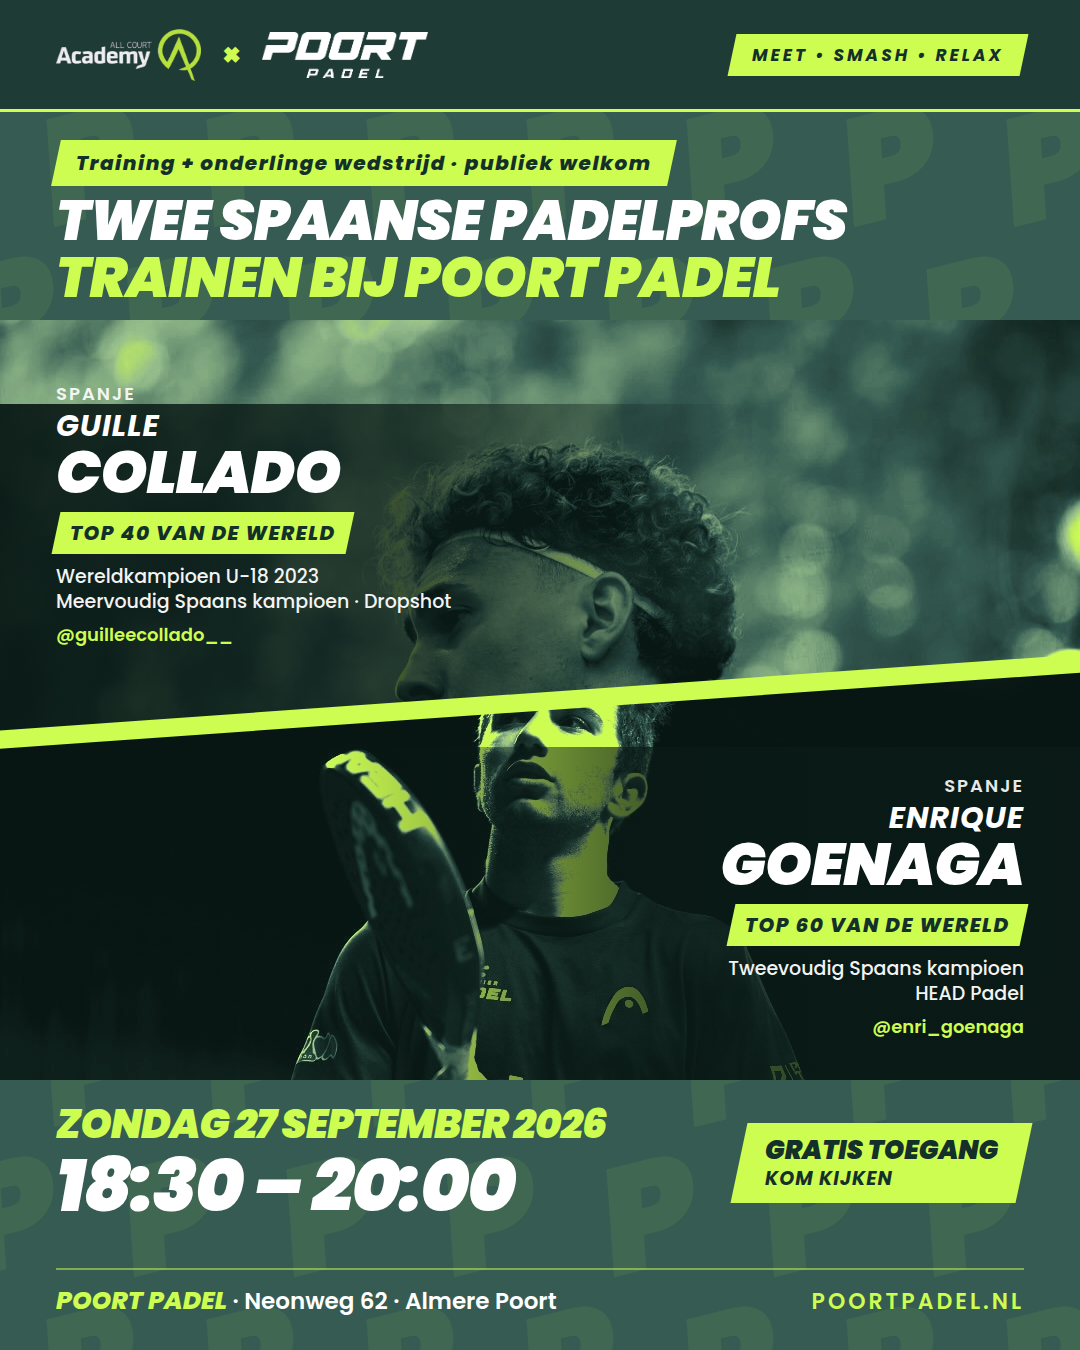
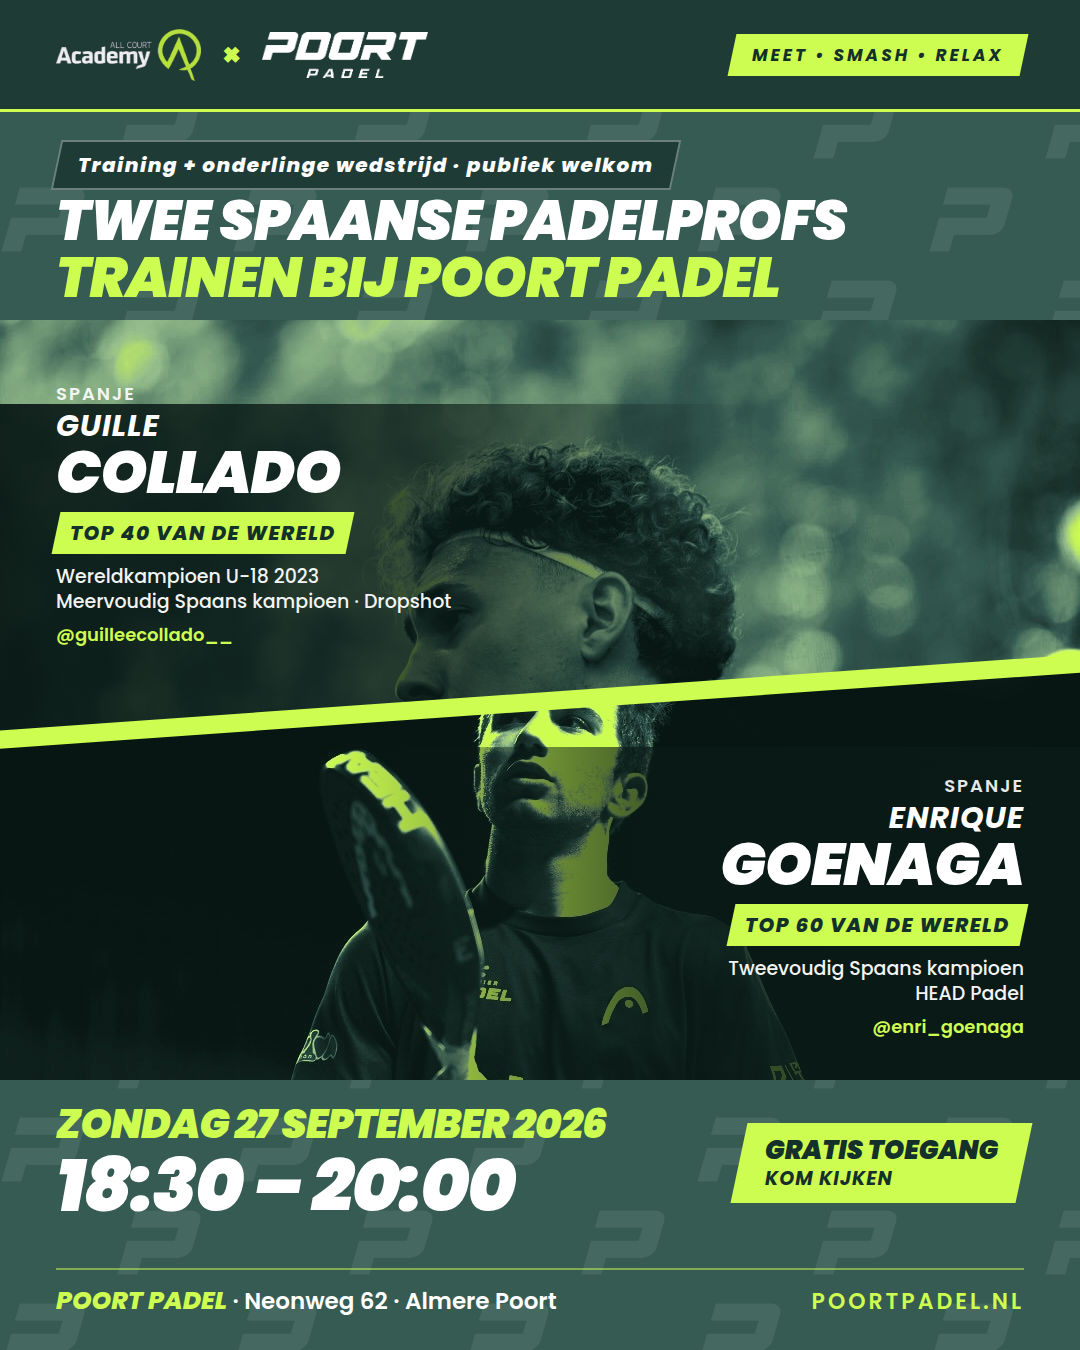
Poster Goenaga & Collado: variant A gekozen, echte Poort Padel-P als patroon
Achtergrondpatroon uit het ballogo in verspringend raster, label
donkergroen met witte tekst. Alle varianten opnieuw gerenderd.

Claude-Session: https://claude.ai/code/session_01XvRhSgAuPfNbbAXDCSXsBF

Changed region(s): [[0.0306, 0.0933, 0.6417, 0.1556]]

diff --git a/events/2026-poort-padel-goenaga-collado/poster-d.html b/events/2026-poort-padel-goenaga-collado/poster-d.html
@@ -8,11 +8,9 @@
 
 :root{--lime:#CDFD50;--green:#355B52;--green-dark:#1F3B35;--ink:#14302A;--white:#FFFFFF;--pad:56px}
 *{box-sizing:border-box;margin:0;padding:0}
-html,body{width:1080px;height:1350px;overflow:hidden;background:var(--green)}
+html,body{width:1080px;height:1350px;overflow:hidden;background:var(--green) url(build/p-pattern-groen.png) 0 0 repeat}
 body{font-family:"Poppins",Arial,sans-serif;color:var(--white);position:relative;-webkit-font-smoothing:antialiased}
 .upper{text-transform:uppercase}
-.pattern{position:absolute;inset:0;overflow:hidden;opacity:.07;pointer-events:none}
-.pattern span{position:absolute;font-weight:900;font-style:italic;font-size:150px;line-height:1;color:var(--lime);transform:rotate(-14deg)}
 /* logobalk bovenaan: All Court Academy x Poort Padel, duidelijk los van de kop */
 .band{position:absolute;top:0;left:0;right:0;height:112px;background:var(--green-dark);display:flex;align-items:center;justify-content:space-between;padding:0 var(--pad);border-bottom:3px solid var(--lime)}
 .band .logos{display:flex;align-items:center;gap:22px}
@@ -21,7 +19,7 @@ body{font-family:"Poppins",Arial,sans-serif;color:var(--white);position:relative
 .band .logos .x{color:var(--lime);font-weight:900;font-size:30px;line-height:1}
 .tag{background:var(--lime);color:var(--ink);font-weight:700;font-style:italic;font-size:17px;letter-spacing:3px;padding:8px 20px;transform:skewX(-12deg)}
 .tag span{display:inline-block;transform:skewX(12deg)}
-.kicker{display:inline-block;background:var(--lime);color:var(--ink);font-weight:800;font-style:italic;font-size:20px;letter-spacing:1.5px;padding:8px 20px;transform:skewX(-12deg)}
+.kicker{display:inline-block;background:var(--green-dark);color:var(--white);border:2px solid rgba(255,255,255,.35);font-weight:800;font-style:italic;font-size:20px;letter-spacing:1.5px;padding:8px 20px;transform:skewX(-12deg)}
 .kicker span{display:inline-block;transform:skewX(12deg)}
 .headline{font-weight:900;font-style:italic;line-height:1.02;letter-spacing:-1px}
 .lime{color:var(--lime)}
@@ -45,13 +43,11 @@ body{font-family:"Poppins",Arial,sans-serif;color:var(--white);position:relative
 .footer .where b{color:var(--lime);font-weight:800;font-style:italic;font-size:25px}
 .footer .site{font-size:22px;font-weight:600;letter-spacing:3px;color:var(--lime)}
 
-html,body{background:var(--lime)}
+html,body{background:var(--lime) url(build/p-pattern-lime.png) 0 0 repeat}
 body{color:var(--ink)}
-.pattern span{color:var(--ink)}
-.pattern{opacity:.05}
 .band{background:var(--green-dark);border-bottom:none}
 .kick{position:absolute;top:146px;left:var(--pad)}
-.kicker{background:var(--green-dark);color:var(--lime)}
+.kicker{background:var(--green-dark);color:var(--lime);border-color:var(--green-dark)}
 .headline{position:absolute;top:200px;left:var(--pad);right:var(--pad);font-size:60px;color:var(--ink)}
 .headline .inv{display:inline-block;background:var(--green-dark);color:var(--lime);padding:2px 18px 6px;transform:skewX(-8deg);margin-top:6px}
 .headline .inv span{display:inline-block;transform:skewX(8deg)}
@@ -70,7 +66,7 @@ body{color:var(--ink)}
 .footer{border-top:2px solid rgba(20,48,42,.4)}
 .footer .where b,.footer .site{color:var(--ink)}
 </style></head>
-<body><div class="pattern" id="pattern"></div>
+<body>
 <div class="band">
   <div class="logos"><img class="aca" src="build/logo-all-court-academy-wit.png" alt="All Court Academy"><span class="x">×</span><img class="pp" src="build/logo-poort-padel-wit.png" alt="Poort Padel"></div>
   <div class="tag"><span>MEET • SMASH • RELAX</span></div>
@@ -104,7 +100,4 @@ body{color:var(--ink)}
   <div class="cta"><span>Gratis toegang <small>· kom kijken</small></span></div>
 </div>
 <div class="footer"><div class="where"><b>POORT PADEL</b> · Neonweg 62 · Almere Poort</div><div class="site upper">poortpadel.nl</div></div>
-<script>
-const p=document.getElementById('pattern');
-for(let r=0;r<10;r++)for(let c=0;c<8;c++){const s=document.createElement('span');s.textContent='P';s.style.left=(c*160-40+(r%2)*80)+'px';s.style.top=(r*150-60)+'px';p.appendChild(s);}
-</script></body></html>
+</body></html>

diff --git a/events/2026-poort-padel-goenaga-collado/poster-a.html b/events/2026-poort-padel-goenaga-collado/poster-a.html
@@ -8,11 +8,9 @@
 
 :root{--lime:#CDFD50;--green:#355B52;--green-dark:#1F3B35;--ink:#14302A;--white:#FFFFFF;--pad:56px}
 *{box-sizing:border-box;margin:0;padding:0}
-html,body{width:1080px;height:1350px;overflow:hidden;background:var(--green)}
+html,body{width:1080px;height:1350px;overflow:hidden;background:var(--green) url(build/p-pattern-groen.png) 0 0 repeat}
 body{font-family:"Poppins",Arial,sans-serif;color:var(--white);position:relative;-webkit-font-smoothing:antialiased}
 .upper{text-transform:uppercase}
-.pattern{position:absolute;inset:0;overflow:hidden;opacity:.07;pointer-events:none}
-.pattern span{position:absolute;font-weight:900;font-style:italic;font-size:150px;line-height:1;color:var(--lime);transform:rotate(-14deg)}
 /* logobalk bovenaan: All Court Academy x Poort Padel, duidelijk los van de kop */
 .band{position:absolute;top:0;left:0;right:0;height:112px;background:var(--green-dark);display:flex;align-items:center;justify-content:space-between;padding:0 var(--pad);border-bottom:3px solid var(--lime)}
 .band .logos{display:flex;align-items:center;gap:22px}
@@ -21,7 +19,7 @@ body{font-family:"Poppins",Arial,sans-serif;color:var(--white);position:relative
 .band .logos .x{color:var(--lime);font-weight:900;font-size:30px;line-height:1}
 .tag{background:var(--lime);color:var(--ink);font-weight:700;font-style:italic;font-size:17px;letter-spacing:3px;padding:8px 20px;transform:skewX(-12deg)}
 .tag span{display:inline-block;transform:skewX(12deg)}
-.kicker{display:inline-block;background:var(--lime);color:var(--ink);font-weight:800;font-style:italic;font-size:20px;letter-spacing:1.5px;padding:8px 20px;transform:skewX(-12deg)}
+.kicker{display:inline-block;background:var(--green-dark);color:var(--white);border:2px solid rgba(255,255,255,.35);font-weight:800;font-style:italic;font-size:20px;letter-spacing:1.5px;padding:8px 20px;transform:skewX(-12deg)}
 .kicker span{display:inline-block;transform:skewX(12deg)}
 .headline{font-weight:900;font-style:italic;line-height:1.02;letter-spacing:-1px}
 .lime{color:var(--lime)}
@@ -60,7 +58,7 @@ body{font-family:"Poppins",Arial,sans-serif;color:var(--white);position:relative
 .when .time{font-weight:900;font-style:italic;font-size:90px;line-height:1;letter-spacing:-3px;margin-top:6px}
 .when .cta{margin:16px 0 0 8px}
 </style></head>
-<body><div class="pattern" id="pattern"></div>
+<body>
 <div class="band">
   <div class="logos"><img class="aca" src="build/logo-all-court-academy-wit.png" alt="All Court Academy"><span class="x">×</span><img class="pp" src="build/logo-poort-padel-wit.png" alt="Poort Padel"></div>
   <div class="tag"><span>MEET • SMASH • RELAX</span></div>
@@ -94,7 +92,4 @@ body{font-family:"Poppins",Arial,sans-serif;color:var(--white);position:relative
   <div class="cta"><span>Gratis toegang <small>· kom kijken</small></span></div>
 </div>
 <div class="footer"><div class="where"><b>POORT PADEL</b> · Neonweg 62 · Almere Poort</div><div class="site upper">poortpadel.nl</div></div>
-<script>
-const p=document.getElementById('pattern');
-for(let r=0;r<10;r++)for(let c=0;c<8;c++){const s=document.createElement('span');s.textContent='P';s.style.left=(c*160-40+(r%2)*80)+'px';s.style.top=(r*150-60)+'px';p.appendChild(s);}
-</script></body></html>
+</body></html>

diff --git a/events/2026-poort-padel-goenaga-collado/poster-c.html b/events/2026-poort-padel-goenaga-collado/poster-c.html
@@ -8,11 +8,9 @@
 
 :root{--lime:#CDFD50;--green:#355B52;--green-dark:#1F3B35;--ink:#14302A;--white:#FFFFFF;--pad:56px}
 *{box-sizing:border-box;margin:0;padding:0}
-html,body{width:1080px;height:1350px;overflow:hidden;background:var(--green)}
+html,body{width:1080px;height:1350px;overflow:hidden;background:var(--green) url(build/p-pattern-groen.png) 0 0 repeat}
 body{font-family:"Poppins",Arial,sans-serif;color:var(--white);position:relative;-webkit-font-smoothing:antialiased}
 .upper{text-transform:uppercase}
-.pattern{position:absolute;inset:0;overflow:hidden;opacity:.07;pointer-events:none}
-.pattern span{position:absolute;font-weight:900;font-style:italic;font-size:150px;line-height:1;color:var(--lime);transform:rotate(-14deg)}
 /* logobalk bovenaan: All Court Academy x Poort Padel, duidelijk los van de kop */
 .band{position:absolute;top:0;left:0;right:0;height:112px;background:var(--green-dark);display:flex;align-items:center;justify-content:space-between;padding:0 var(--pad);border-bottom:3px solid var(--lime)}
 .band .logos{display:flex;align-items:center;gap:22px}
@@ -21,7 +19,7 @@ body{font-family:"Poppins",Arial,sans-serif;color:var(--white);position:relative
 .band .logos .x{color:var(--lime);font-weight:900;font-size:30px;line-height:1}
 .tag{background:var(--lime);color:var(--ink);font-weight:700;font-style:italic;font-size:17px;letter-spacing:3px;padding:8px 20px;transform:skewX(-12deg)}
 .tag span{display:inline-block;transform:skewX(12deg)}
-.kicker{display:inline-block;background:var(--lime);color:var(--ink);font-weight:800;font-style:italic;font-size:20px;letter-spacing:1.5px;padding:8px 20px;transform:skewX(-12deg)}
+.kicker{display:inline-block;background:var(--green-dark);color:var(--white);border:2px solid rgba(255,255,255,.35);font-weight:800;font-style:italic;font-size:20px;letter-spacing:1.5px;padding:8px 20px;transform:skewX(-12deg)}
 .kicker span{display:inline-block;transform:skewX(12deg)}
 .headline{font-weight:900;font-style:italic;line-height:1.02;letter-spacing:-1px}
 .lime{color:var(--lime)}
@@ -65,7 +63,7 @@ body{font-family:"Poppins",Arial,sans-serif;color:var(--white);position:relative
 .when .cta small{display:block;margin:6px 0 0;font-size:19px}
 .footer{bottom:30px;padding-top:12px}
 </style></head>
-<body><div class="pattern" id="pattern"></div>
+<body>
 <div class="band">
   <div class="logos"><img class="aca" src="build/logo-all-court-academy-wit.png" alt="All Court Academy"><span class="x">×</span><img class="pp" src="build/logo-poort-padel-wit.png" alt="Poort Padel"></div>
   <div class="tag"><span>MEET • SMASH • RELAX</span></div>
@@ -98,7 +96,4 @@ body{font-family:"Poppins",Arial,sans-serif;color:var(--white);position:relative
   <div class="cta"><span>Gratis toegang<small>kom kijken</small></span></div>
 </div>
 <div class="footer"><div class="where"><b>POORT PADEL</b> · Neonweg 62 · Almere Poort</div><div class="site upper">poortpadel.nl</div></div>
-<script>
-const p=document.getElementById('pattern');
-for(let r=0;r<10;r++)for(let c=0;c<8;c++){const s=document.createElement('span');s.textContent='P';s.style.left=(c*160-40+(r%2)*80)+'px';s.style.top=(r*150-60)+'px';p.appendChild(s);}
-</script></body></html>
+</body></html>

diff --git a/events/2026-poort-padel-goenaga-collado/poster-b.html b/events/2026-poort-padel-goenaga-collado/poster-b.html
@@ -8,11 +8,9 @@
 
 :root{--lime:#CDFD50;--green:#355B52;--green-dark:#1F3B35;--ink:#14302A;--white:#FFFFFF;--pad:56px}
 *{box-sizing:border-box;margin:0;padding:0}
-html,body{width:1080px;height:1350px;overflow:hidden;background:var(--green)}
+html,body{width:1080px;height:1350px;overflow:hidden;background:var(--green) url(build/p-pattern-groen.png) 0 0 repeat}
 body{font-family:"Poppins",Arial,sans-serif;color:var(--white);position:relative;-webkit-font-smoothing:antialiased}
 .upper{text-transform:uppercase}
-.pattern{position:absolute;inset:0;overflow:hidden;opacity:.07;pointer-events:none}
-.pattern span{position:absolute;font-weight:900;font-style:italic;font-size:150px;line-height:1;color:var(--lime);transform:rotate(-14deg)}
 /* logobalk bovenaan: All Court Academy x Poort Padel, duidelijk los van de kop */
 .band{position:absolute;top:0;left:0;right:0;height:112px;background:var(--green-dark);display:flex;align-items:center;justify-content:space-between;padding:0 var(--pad);border-bottom:3px solid var(--lime)}
 .band .logos{display:flex;align-items:center;gap:22px}
@@ -21,7 +19,7 @@ body{font-family:"Poppins",Arial,sans-serif;color:var(--white);position:relative
 .band .logos .x{color:var(--lime);font-weight:900;font-size:30px;line-height:1}
 .tag{background:var(--lime);color:var(--ink);font-weight:700;font-style:italic;font-size:17px;letter-spacing:3px;padding:8px 20px;transform:skewX(-12deg)}
 .tag span{display:inline-block;transform:skewX(12deg)}
-.kicker{display:inline-block;background:var(--lime);color:var(--ink);font-weight:800;font-style:italic;font-size:20px;letter-spacing:1.5px;padding:8px 20px;transform:skewX(-12deg)}
+.kicker{display:inline-block;background:var(--green-dark);color:var(--white);border:2px solid rgba(255,255,255,.35);font-weight:800;font-style:italic;font-size:20px;letter-spacing:1.5px;padding:8px 20px;transform:skewX(-12deg)}
 .kicker span{display:inline-block;transform:skewX(12deg)}
 .headline{font-weight:900;font-style:italic;line-height:1.02;letter-spacing:-1px}
 .lime{color:var(--lime)}
@@ -63,7 +61,7 @@ body{font-family:"Poppins",Arial,sans-serif;color:var(--white);position:relative
 .caption{bottom:34px}.caption.l{left:var(--pad)}.caption.r{right:var(--pad)}
 .footer{bottom:56px}
 </style></head>
-<body><div class="pattern" id="pattern"></div>
+<body>
 <div class="band">
   <div class="logos"><img class="aca" src="build/logo-all-court-academy-wit.png" alt="All Court Academy"><span class="x">×</span><img class="pp" src="build/logo-poort-padel-wit.png" alt="Poort Padel"></div>
   <div class="tag"><span>MEET • SMASH • RELAX</span></div>
@@ -96,7 +94,4 @@ body{font-family:"Poppins",Arial,sans-serif;color:var(--white);position:relative
   </div>
 </div>
 <div class="footer"><div class="where"><b>POORT PADEL</b> · Neonweg 62 · Almere Poort</div><div class="site upper">poortpadel.nl</div></div>
-<script>
-const p=document.getElementById('pattern');
-for(let r=0;r<10;r++)for(let c=0;c<8;c++){const s=document.createElement('span');s.textContent='P';s.style.left=(c*160-40+(r%2)*80)+'px';s.style.top=(r*150-60)+'px';p.appendChild(s);}
-</script></body></html>
+</body></html>

diff --git a/events/2026-poort-padel-goenaga-collado/build_variants.py b/events/2026-poort-padel-goenaga-collado/build_variants.py
@@ -22,6 +22,24 @@ P2 = {'first': 'Enrique', 'last': 'Goenaga', 'rank': 'Top 60 van de wereld',
       'facts': 'Tweevoudig Spaans kampioen<br>HEAD Padel', 'handle': '@enri_goenaga',
       'img': 'build/goenaga-duotone.jpg'}
 
+from PIL import Image
+
+
+def make_pattern(color, alpha, out, pw=86, gx=30, gy=26):
+    """Tegel met twee verspringende P's uit het Poort Padel-logo; kleur/alpha bepalen hoe subtiel het patroon is."""
+    g = Image.open('build/p-poort-padel.png').convert('RGBA')
+    g = g.resize((pw, int(g.height * pw / g.width)), Image.LANCZOS)
+    a = g.split()[3].point(lambda v: int(v * alpha))
+    glyph = Image.new('RGBA', g.size, color + (0,)); glyph.putalpha(a)
+    tw, th = 2 * (pw + gx), 2 * (g.height + gy)
+    tile = Image.new('RGBA', (tw, th), (0, 0, 0, 0))
+    tile.alpha_composite(glyph, (0, 0)); tile.alpha_composite(glyph, (pw + gx, g.height + gy))
+    tile.save(out)
+
+
+make_pattern((255, 255, 255), 0.085, 'build/p-pattern-groen.png')
+make_pattern((20, 48, 42), 0.07, 'build/p-pattern-lime.png')
+
 FONTS = """
 @font-face{font-family:"Poppins";font-weight:900;font-style:italic;src:url(fonts/Poppins-BlackItalic.ttf)}
 @font-face{font-family:"Poppins";font-weight:900;font-style:normal;src:url(fonts/Poppins-Black.ttf)}
@@ -34,11 +52,9 @@ FONTS = """
 BASE = """
 :root{--lime:#CDFD50;--green:#355B52;--green-dark:#1F3B35;--ink:#14302A;--white:#FFFFFF;--pad:56px}
 *{box-sizing:border-box;margin:0;padding:0}
-html,body{width:1080px;height:1350px;overflow:hidden;background:var(--green)}
+html,body{width:1080px;height:1350px;overflow:hidden;background:var(--green) url(build/p-pattern-groen.png) 0 0 repeat}
 body{font-family:"Poppins",Arial,sans-serif;color:var(--white);position:relative;-webkit-font-smoothing:antialiased}
 .upper{text-transform:uppercase}
-.pattern{position:absolute;inset:0;overflow:hidden;opacity:.07;pointer-events:none}
-.pattern span{position:absolute;font-weight:900;font-style:italic;font-size:150px;line-height:1;color:var(--lime);transform:rotate(-14deg)}
 /* logobalk bovenaan: All Court Academy x Poort Padel, duidelijk los van de kop */
 .band{position:absolute;top:0;left:0;right:0;height:112px;background:var(--green-dark);display:flex;align-items:center;justify-content:space-between;padding:0 var(--pad);border-bottom:3px solid var(--lime)}
 .band .logos{display:flex;align-items:center;gap:22px}
@@ -47,7 +63,7 @@ body{font-family:"Poppins",Arial,sans-serif;color:var(--white);position:relative
 .band .logos .x{color:var(--lime);font-weight:900;font-size:30px;line-height:1}
 .tag{background:var(--lime);color:var(--ink);font-weight:700;font-style:italic;font-size:17px;letter-spacing:3px;padding:8px 20px;transform:skewX(-12deg)}
 .tag span{display:inline-block;transform:skewX(12deg)}
-.kicker{display:inline-block;background:var(--lime);color:var(--ink);font-weight:800;font-style:italic;font-size:20px;letter-spacing:1.5px;padding:8px 20px;transform:skewX(-12deg)}
+.kicker{display:inline-block;background:var(--green-dark);color:var(--white);border:2px solid rgba(255,255,255,.35);font-weight:800;font-style:italic;font-size:20px;letter-spacing:1.5px;padding:8px 20px;transform:skewX(-12deg)}
 .kicker span{display:inline-block;transform:skewX(12deg)}
 .headline{font-weight:900;font-style:italic;line-height:1.02;letter-spacing:-1px}
 .lime{color:var(--lime)}
@@ -72,10 +88,7 @@ body{font-family:"Poppins",Arial,sans-serif;color:var(--white);position:relative
 .footer .site{font-size:22px;font-weight:600;letter-spacing:3px;color:var(--lime)}
 """
 
-PATTERN_JS = """<script>
-const p=document.getElementById('pattern');
-for(let r=0;r<10;r++)for(let c=0;c<8;c++){const s=document.createElement('span');s.textContent='P';s.style.left=(c*160-40+(r%2)*80)+'px';s.style.top=(r*150-60)+'px';p.appendChild(s);}
-</script>"""
+PATTERN_JS = ""
 
 
 def band():
@@ -102,7 +115,7 @@ def footer():
 
 def page(title, css, body):
     return f"""<!doctype html><html lang="nl"><head><meta charset="utf-8"><title>{title}</title><style>{FONTS}{BASE}{css}</style></head>
-<body><div class="pattern" id="pattern"></div>
+<body>
 {body}
 {PATTERN_JS}</body></html>"""
 
@@ -217,13 +230,11 @@ BODY_C = f"""{band()}
 
 # ---------- D: lime achtergrond, donkergroene tekst ----------
 CSS_D = """
-html,body{background:var(--lime)}
+html,body{background:var(--lime) url(build/p-pattern-lime.png) 0 0 repeat}
 body{color:var(--ink)}
-.pattern span{color:var(--ink)}
-.pattern{opacity:.05}
 .band{background:var(--green-dark);border-bottom:none}
 .kick{position:absolute;top:146px;left:var(--pad)}
-.kicker{background:var(--green-dark);color:var(--lime)}
+.kicker{background:var(--green-dark);color:var(--lime);border-color:var(--green-dark)}
 .headline{position:absolute;top:200px;left:var(--pad);right:var(--pad);font-size:60px;color:var(--ink)}
 .headline .inv{display:inline-block;background:var(--green-dark);color:var(--lime);padding:2px 18px 6px;transform:skewX(-8deg);margin-top:6px}
 .headline .inv span{display:inline-block;transform:skewX(8deg)}

diff --git a/events/2026-poort-padel-goenaga-collado/README.md b/events/2026-poort-padel-goenaga-collado/README.md
@@ -160,3 +160,12 @@ Na de eerste versie: All Court Academy en Poort Padel staan nu samen in een donk
 | D | `poster-d.html`, `poster-d-1080x1350.png` | lime achtergrond met donkergroene tekst, kop deels in een donker blok |
 
 Van elke variant staat ook een 2×-versie (`poster-X-2160x2700.png`). De tekst voor alle vier staat in `build_variants.py` bovenaan (`T`, `P1`, `P2`); daar één keer aanpassen en opnieuw draaien. Als een variant gekozen is, kan die HTML direct verder bewerkt worden zoals bij versie 1 beschreven.
+
+## Keuze: variant A, met twee aanpassingen (22 september 2026)
+
+Lars koos variant A. Daarna aangepast in alle varianten:
+
+- Het label "Training + onderlinge wedstrijd · publiek welkom" is nu donkergroen met witte tekst, zodat het niet met de lime kop vecht.
+- De achtergrond-P is nu de echte Poort Padel-P (uit het ballogo geknipt naar `build/p-poort-padel.png`), in een verspringend raster net als op de banners van Poort Padel. `build_variants.py` maakt daar de tegels `build/p-pattern-groen.png` en `build/p-pattern-lime.png` van; dichtheid en zichtbaarheid regel je met `pw`, `gx`, `gy` en `alpha` in `make_pattern`.
+
+Definitief bestand voor Instagram: `poster-a-1080x1350.png`; voor scherm of print `poster-a-2160x2700.png`.
